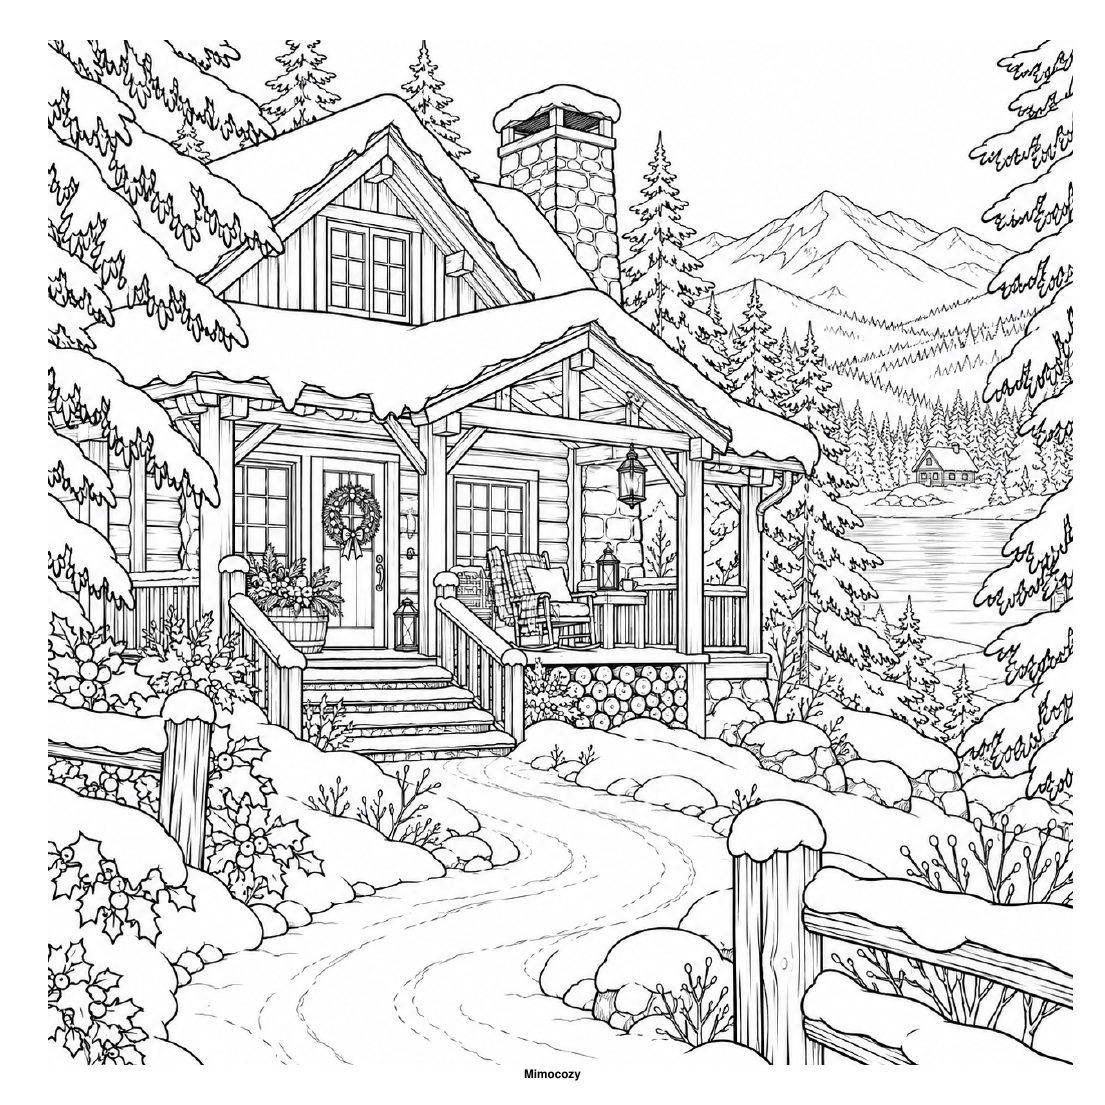
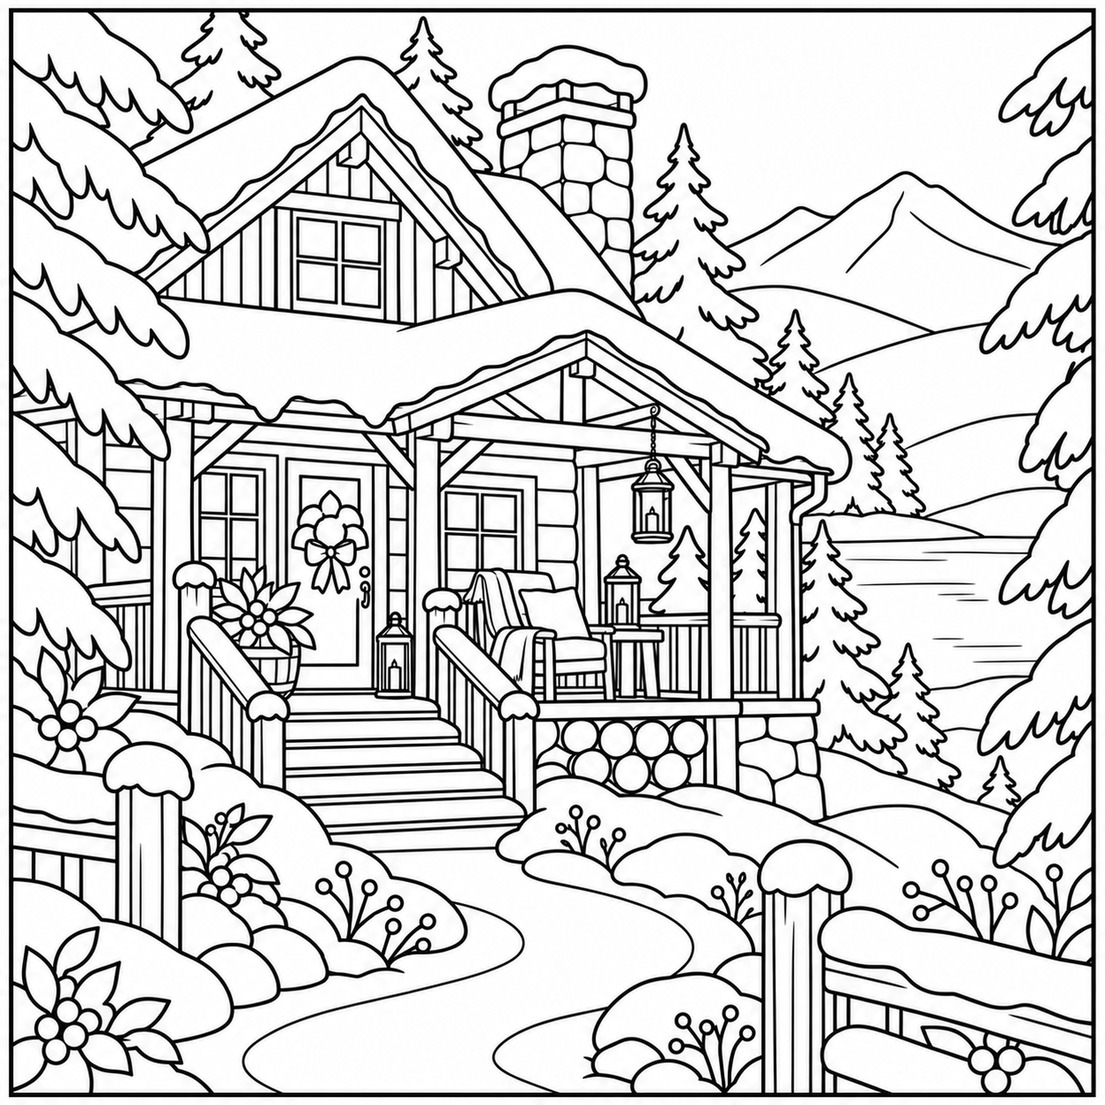
Slow Life: Quiet Winter Days: ilustrações interiores mais simples (miolo corrigido de 15 Out); exemplos pintados da arte antiga retirados

diff --git a/books/slow-life-quiet-winter-days/index.html b/books/slow-life-quiet-winter-days/index.html
@@ -73,16 +73,12 @@
       <p class="sub" data-pt="Toca numa imagem para a ver em grande. Usa as setas ou desliza para mudar." data-en="Tap an image to see it large. Use the arrows or swipe to browse.">Toca numa imagem para a ver em grande. Usa as setas ou desliza para mudar.</p>
       <div class="g-wrap">
         <div class="g-main"><button type="button" id="g-main-btn" data-i18n-attr="aria-label" data-pt="Ver imagem em grande" data-en="View image large" aria-label="Ver imagem em grande"><img src="../../assets/slow/winter-cover.jpg?v=20261007" width="1087" height="1087" loading="lazy" decoding="async" alt="Slow Life: Quiet Winter Days — capa" data-i18n-attr="alt" data-pt="Slow Life: Quiet Winter Days — capa" data-en="Slow Life: Quiet Winter Days — cover" id="g-main-img" /></button></div>
-        <div class="peeks bk-thumbs"><button type="button" data-gallery-index="0" data-full="../../assets/slow/winter-cover.jpg?v=20261007" aria-current="true"><img src="../../assets/slow/winter-cover.jpg?v=20261007" width="1087" height="1087" loading="lazy" decoding="async" alt="Slow Life: Quiet Winter Days — capa" data-i18n-attr="alt" data-pt="Slow Life: Quiet Winter Days — capa" data-en="Slow Life: Quiet Winter Days — cover" /></button><button type="button" data-gallery-index="1" data-full="../../assets/slides/winter-1.jpg?v=20261007" aria-current="false"><img src="../../assets/slides/winter-1.jpg?v=20261007" width="1105" height="1105" loading="lazy" decoding="async" alt="Slow Life: Quiet Winter Days — página do interior 1" data-i18n-attr="alt" data-pt="Slow Life: Quiet Winter Days — página do interior 1" data-en="Slow Life: Quiet Winter Days — inside page 1" /></button><button type="button" data-gallery-index="2" data-full="../../assets/slides/winter-2.jpg?v=20261007" aria-current="false"><img src="../../assets/slides/winter-2.jpg?v=20261007" width="1105" height="1105" loading="lazy" decoding="async" alt="Slow Life: Quiet Winter Days — página do interior 2" data-i18n-attr="alt" data-pt="Slow Life: Quiet Winter Days — página do interior 2" data-en="Slow Life: Quiet Winter Days — inside page 2" /></button><button type="button" data-gallery-index="3" data-full="../../assets/slides/winter-3.jpg?v=20261007" aria-current="false"><img src="../../assets/slides/winter-3.jpg?v=20261007" width="1105" height="1105" loading="lazy" decoding="async" alt="Slow Life: Quiet Winter Days — página do interior 3" data-i18n-attr="alt" data-pt="Slow Life: Quiet Winter Days — página do interior 3" data-en="Slow Life: Quiet Winter Days — inside page 3" /></button></div>
+        <div class="peeks bk-thumbs"><button type="button" data-gallery-index="0" data-full="../../assets/slow/winter-cover.jpg?v=20261007" aria-current="true"><img src="../../assets/slow/winter-cover.jpg?v=20261007" width="1087" height="1087" loading="lazy" decoding="async" alt="Slow Life: Quiet Winter Days — capa" data-i18n-attr="alt" data-pt="Slow Life: Quiet Winter Days — capa" data-en="Slow Life: Quiet Winter Days — cover" /></button><button type="button" data-gallery-index="1" data-full="../../assets/slides/winter-1.jpg?v=20261110" aria-current="false"><img src="../../assets/slides/winter-1.jpg?v=20261110" width="1105" height="1105" loading="lazy" decoding="async" alt="Slow Life: Quiet Winter Days — página do interior 1" data-i18n-attr="alt" data-pt="Slow Life: Quiet Winter Days — página do interior 1" data-en="Slow Life: Quiet Winter Days — inside page 1" /></button><button type="button" data-gallery-index="2" data-full="../../assets/slides/winter-2.jpg?v=20261110" aria-current="false"><img src="../../assets/slides/winter-2.jpg?v=20261110" width="1105" height="1105" loading="lazy" decoding="async" alt="Slow Life: Quiet Winter Days — página do interior 2" data-i18n-attr="alt" data-pt="Slow Life: Quiet Winter Days — página do interior 2" data-en="Slow Life: Quiet Winter Days — inside page 2" /></button><button type="button" data-gallery-index="3" data-full="../../assets/slides/winter-3.jpg?v=20261110" aria-current="false"><img src="../../assets/slides/winter-3.jpg?v=20261110" width="1105" height="1105" loading="lazy" decoding="async" alt="Slow Life: Quiet Winter Days — página do interior 3" data-i18n-attr="alt" data-pt="Slow Life: Quiet Winter Days — página do interior 3" data-en="Slow Life: Quiet Winter Days — inside page 3" /></button></div>
       </div>
     </section>
 
     <!-- C. Bring Your Pages to Life (only when real coloured examples exist) -->
-    <section id="colors">
-      <h2 data-pt="Dá vida às tuas páginas" data-en="Bring Your Pages to Life">Dá vida às tuas páginas</h2>
-      <p class="sub" data-pt="Exemplos de pintura: a mesma página do livro, antes e depois de colorida. O livro traz as páginas a preto e branco." data-en="Coloring examples: the same page from the book, before and after coloring. The book contains the black-and-white pages.">Exemplos de pintura: a mesma página do livro, antes e depois de colorida. O livro traz as páginas a preto e branco.</p>
-      <div class="cx-grid"><div class="cx-pair"><figure><img src="../../assets/slow/slow-life-quiet-winter-days-p09-lineart.jpg" width="1105" height="1105" loading="lazy" decoding="async" alt="Slow Life: Quiet Winter Days — página original 1, a preto e branco" data-i18n-attr="alt" data-pt="Slow Life: Quiet Winter Days — página original 1, a preto e branco" data-en="Slow Life: Quiet Winter Days — original page 1, black and white" /><figcaption data-pt="Página original" data-en="Original page">Página original</figcaption></figure><figure><img src="../../assets/slow/slow-life-quiet-winter-days-p09-colored.jpg" width="1105" height="1105" loading="lazy" decoding="async" alt="Slow Life: Quiet Winter Days — exemplo de pintura 1" data-i18n-attr="alt" data-pt="Slow Life: Quiet Winter Days — exemplo de pintura 1" data-en="Slow Life: Quiet Winter Days — coloring example 1" /><figcaption data-pt="Exemplo de pintura" data-en="Coloring example">Exemplo de pintura</figcaption></figure></div><div class="cx-pair"><figure><img src="../../assets/slow/slow-life-quiet-winter-days-p19-lineart.jpg" width="1105" height="1105" loading="lazy" decoding="async" alt="Slow Life: Quiet Winter Days — página original 2, a preto e branco" data-i18n-attr="alt" data-pt="Slow Life: Quiet Winter Days — página original 2, a preto e branco" data-en="Slow Life: Quiet Winter Days — original page 2, black and white" /><figcaption data-pt="Página original" data-en="Original page">Página original</figcaption></figure><figure><img src="../../assets/slow/slow-life-quiet-winter-days-p19-colored.jpg" width="1105" height="1105" loading="lazy" decoding="async" alt="Slow Life: Quiet Winter Days — exemplo de pintura 2" data-i18n-attr="alt" data-pt="Slow Life: Quiet Winter Days — exemplo de pintura 2" data-en="Slow Life: Quiet Winter Days — coloring example 2" /><figcaption data-pt="Exemplo de pintura" data-en="Coloring example">Exemplo de pintura</figcaption></figure></div></div>
-    </section>
+    
 
     <!-- D. Discover the Story -->
     <section id="story">
